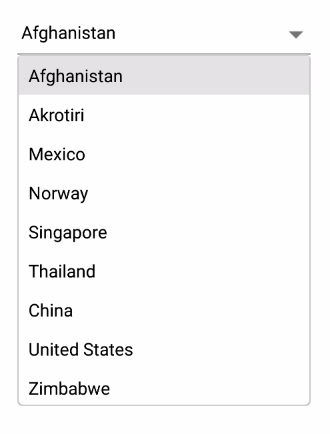
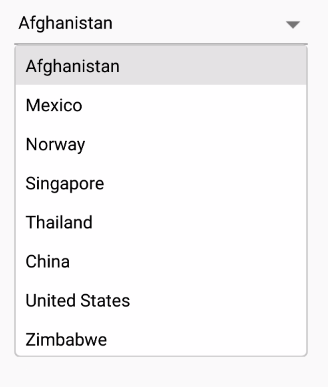
spelling errors are corrected and send for merge request

Changed region(s): [[0.0305, 0.031, 0.9451, 0.9302], [0.9146, 0.2171, 0.9451, 0.9302]]

diff --git a/Xamarin/SfComboBox/ComboBox-Filtering-Options.md b/Xamarin/SfComboBox/ComboBox-Filtering-Options.md
@@ -24,7 +24,6 @@ ComboBox provides enable the filer option for filtering the suggestions in drop 
 	
 List<String> countryNames = new List<String>();
 countryNames.Add("Afghanistan"); 
-countryNames.Add("Akrotiri"); 
 countryNames.Add("Albania");
 countryNames.Add("Algeria");
 countryNames.Add("American Samoa");

diff --git a/Xamarin/SfComboBox/Getting-Started.md b/Xamarin/SfComboBox/Getting-Started.md
@@ -149,7 +149,6 @@ Now, let us create a simple list of country names and set it as the `DataSource`
 
 List<String> countryNames = new List<String>();
 countryNames.Add("Afghanistan"); 
-countryNames.Add("Akrotiri"); 
 countryNames.Add("Mexico"); 
 countryNames.Add("Norway"); 
 countryNames.Add("Singapore"); 
